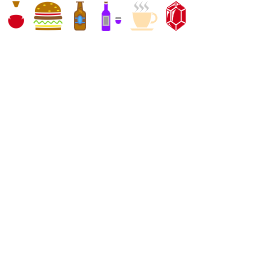
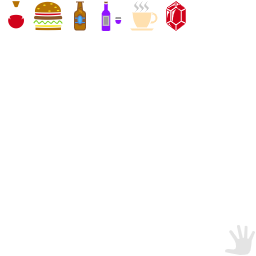
i can see a ghost hand on the hamburger on teh floor when i hover over it.

Changed region(s): [[0.875, 0.875, 1.0, 1.0]]

diff --git a/aspirant_application/Graphics.FloorInventory.cpp b/aspirant_application/Graphics.FloorInventory.cpp
@@ -7,9 +7,31 @@
 #include "Game.Avatar.h"
 #include "Graphics.Data.Properties.h"
 #include "Graphics.Fonts.h"
+#include "Graphics.Data.Types.h"
 #include <sstream>
+namespace graphics::Layouts
+{
+	nlohmann::json& GetLayout(const std::string&);
+}
 namespace graphics::FloorInventory
 {
+	template <typename TResult>
+	static TResult WithControl(const std::string& layoutName, const std::string& controlId, std::function<TResult(nlohmann::json&)> func, std::function<TResult()> notFound)
+	{
+		for (auto& thingie : graphics::Layouts::GetLayout(layoutName))
+		{
+			if (graphics::data::Types::FromString(thingie[common::data::Properties::TYPE]) == graphics::data::Type::FLOOR_INVENTORY)
+			{
+				if (thingie.count(graphics::data::Properties::CONTROL_ID) > 0 &&
+					thingie[graphics::data::Properties::CONTROL_ID] == controlId)
+				{
+					return func(thingie);
+				}
+			}
+		}
+		return notFound();
+	}
+
 	static size_t inventoryIndex = 0;
 
 	void ResetIndex()
@@ -100,5 +122,49 @@ namespace graphics::FloorInventory
 			}
 			graphics::Fonts::WriteText(font, renderer, { x,y }, "(nothing)", inactiveColor, graphics::HorizontalAlignment::LEFT);
 		}
+	}
+
+	void OnMouseMotion(const std::string& layoutName, const std::string& controlId, const common::XY<Sint32>& xy)
+	{
+		WithControl<void>(layoutName, controlId,
+			[xy](nlohmann::json& thingie)
+		{
+			int x = thingie[common::data::Properties::X];
+			int y = thingie[common::data::Properties::Y];
+			int width = thingie[common::data::Properties::WIDTH];
+			int rowHeight = thingie[graphics::data::Properties::ROW_HEIGHT];
+			
+			if (xy.GetX() >= x && xy.GetX() < x + width && xy.GetY() >= y)
+			{
+				size_t row = ((size_t)xy.GetY() - (size_t)y) / (size_t)rowHeight;
+				auto inventory = game::world::Items::FloorInventory(game::Avatar::GetPosition());
+				if ((size_t)row < inventory.size())
+				{
+					inventoryIndex = row;
+				}
+			}
+		}, []() {});
+	}
+
+	std::optional<int> OnMouseButtonUp(const std::string& layoutName, const std::string& controlId, const common::XY<Sint32>& xy, Uint8 buttons)
+	{
+		return WithControl<std::optional<int>>(layoutName, controlId,
+			[xy, buttons](nlohmann::json& thingie)
+		{
+			int x = thingie[common::data::Properties::X];
+			int y = thingie[common::data::Properties::Y];
+			int width = thingie[common::data::Properties::WIDTH];
+			int rowHeight = thingie[graphics::data::Properties::ROW_HEIGHT];
+			if (xy.GetX() >= x && xy.GetX() < x + width && xy.GetY() >= y)
+			{
+				size_t row = ((size_t)xy.GetY() - (size_t)y) / (size_t)rowHeight;
+				auto inventory = game::world::Items::FloorInventory(game::Avatar::GetPosition());
+				if ((size_t)row < inventory.size())
+				{
+					return std::optional<int>(row);
+				}
+			}
+			return std::optional<int>();
+		}, []() { return std::nullopt; });
 	}
 }

diff --git a/aspirant_application/Sublayout.POV.cpp b/aspirant_application/Sublayout.POV.cpp
@@ -9,6 +9,9 @@
 #include "Application.Update.h"
 #include "Game.Creatures.h"
 #include <tuple>
+#include "Graphics.Areas.h"
+#include "Application.MouseButtonUp.h"
+#include "Application.MouseMotion.h"
 namespace sublayout::POV
 {
 	const std::string LEFT_SIDE_IMAGE_ID = "LeftSide";
@@ -17,6 +20,9 @@ namespace sublayout::POV
 	const std::string DIRECTION_TEXT_ID = "Direction";
 	const std::string POSITION_TEXT_ID = "Position";
 	const std::string POV_LAYOUT_NAME = "Sublayout.POV";
+
+	const std::string AREA_TAKE_FOOD = "TakeFood";
+	const std::string IMAGE_TAKE_FOOD = "TakeFood";
 
 	const std::map<game::world::Border, std::string> leftSides =
 	{
@@ -70,6 +76,7 @@ namespace sublayout::POV
 
 	static void UpdateItems(const common::XY<size_t> position)
 	{
+
 		for (auto& item : game::item::All())
 		{
 			::graphics::Images::SetVisible(POV_LAYOUT_NAME, game::item::GetDescriptor(item).imageId, game::world::Items::IsPresent(position, item));
@@ -96,8 +103,20 @@ namespace sublayout::POV
 		::UIState::IN_PLAY_COMBAT_RESULT
 	};
 
+	static void OnMouseMotion(const common::XY<Sint32>& xy)
+	{
+		auto areas = graphics::Areas::Get(POV_LAYOUT_NAME, xy);
+		auto position = game::Avatar::GetPosition();
+		for (auto& item : game::item::All())
+		{
+			auto descriptor = game::item::GetDescriptor(item);
+			::graphics::Images::SetVisible(POV_LAYOUT_NAME, descriptor.takeImageId, areas.contains(descriptor.takeAreaId) && game::world::Items::IsPresent(position, item));
+		}
+	}
+
 	void Start()
 	{
+		application::MouseMotion::AddHandler(::UIState::IN_PLAY_MAP, OnMouseMotion);
 		for (auto state : states)
 		{
 			::application::Update::AddHandler(state, UpdatePOV);

diff --git a/aspirant_application/State.InPlay.FloorInventory.cpp b/aspirant_application/State.InPlay.FloorInventory.cpp
@@ -8,9 +8,12 @@
 #include "Game.Avatar.h"
 #include "Game.Avatar.Items.h"
 #include "Common.Utility.h"
+#include "Application.MouseButtonUp.h"
+#include "Application.MouseMotion.h"
 namespace state::in_play::FloorInventory
 {
 	const std::string LAYOUT_NAME = "State.InPlay.FloorInventory";
+	const std::string CONTROL_FLOOR_INVENTORY = "FloorInventory";
 
 	static void PickUpItem()
 	{
@@ -34,8 +37,25 @@ namespace state::in_play::FloorInventory
 		{ ::Command::GREEN, PickUpItem }
 	};
 
+	void OnMouseMotion(const common::XY<Sint32>& xy)
+	{
+		graphics::FloorInventory::OnMouseMotion(LAYOUT_NAME, CONTROL_FLOOR_INVENTORY, xy);
+	}
+
+	bool OnMouseButtonUp(const common::XY<Sint32>& xy, Uint8 buttons)
+	{
+		auto itemUsed = graphics::FloorInventory::OnMouseButtonUp(LAYOUT_NAME, CONTROL_FLOOR_INVENTORY, xy, buttons);
+		if (itemUsed.has_value())
+		{
+			PickUpItem();
+		}
+		return itemUsed.has_value();
+	}
+
 	void Start()
 	{
+		::application::MouseButtonUp::AddHandler(::UIState::IN_PLAY_FLOOR, OnMouseButtonUp);
+		::application::MouseMotion::AddHandler(::UIState::IN_PLAY_FLOOR, OnMouseMotion);
 		::application::Command::SetHandlers(::UIState::IN_PLAY_FLOOR, commandHandlers);
 		::application::Renderer::SetRenderLayout(::UIState::IN_PLAY_FLOOR, LAYOUT_NAME);
 	}

diff --git a/aspirant_application/Graphics.AvatarInventory.cpp b/aspirant_application/Graphics.AvatarInventory.cpp
@@ -8,6 +8,7 @@
 #include "Graphics.Fonts.h"
 #include "Game.Item.h"
 #include "Graphics.Data.Types.h"
+#include <optional>
 namespace graphics::Layouts
 {
 	nlohmann::json& GetLayout(const std::string&);
@@ -140,7 +141,7 @@ namespace graphics::AvatarInventory
 		}, []() {});
 	}
 
-	std::optional<int> OnMouseButtonUp(const std::string& layoutName, const std::string& controlId, const common::XY<Sint32>& xy, Uint8 buttons)
+	std::optional<size_t> OnMouseButtonUp(const std::string& layoutName, const std::string& controlId, const common::XY<Sint32>& xy, Uint8 buttons)
 	{
 		return WithControl<std::optional<int>>(layoutName, controlId,
 			[xy, buttons](nlohmann::json& thingie) 
@@ -155,10 +156,10 @@ namespace graphics::AvatarInventory
 				auto inventory = game::avatar::Items::All();
 				if ((size_t)row < inventory.size())
 				{
-					return std::optional<int>(row);
+					return std::optional<size_t>(row);
 				}
 			}
-			return std::optional<int>();
+			return std::optional<size_t>();
 		}, []() { return std::nullopt; });
 	}
 }

diff --git a/aspirant_application/Game.Item.cpp b/aspirant_application/Game.Item.cpp
@@ -37,6 +37,8 @@ namespace game::item
 		{
 			descriptor[common::data::Properties::NAME],
 			descriptor[game::data::Properties::IMAGE_ID],
+			descriptor[game::data::Properties::TAKE_IMAGE_ID],
+			descriptor[game::data::Properties::TAKE_AREA_ID],
 			(descriptor.count(game::data::Properties::NON_COMBAT)>0) ? (std::optional<Usage>((Usage)(int)descriptor[game::data::Properties::NON_COMBAT])) : (std::nullopt),
 			(descriptor.count(game::data::Properties::AMOUNT) > 0) ? (std::optional<int>((int)descriptor[game::data::Properties::AMOUNT])) : (std::nullopt),
 			(descriptor.count(game::data::Properties::DURATION) > 0) ? (std::optional<int>((int)descriptor[game::data::Properties::DURATION])) : (std::nullopt),

diff --git a/aspirant_application/Graphics.FloorInventory.h b/aspirant_application/Graphics.FloorInventory.h
@@ -1,10 +1,14 @@
 #pragma once
 #include <optional>
 #include "Game.Item.h"
+#include <SDL.h>
+#include "Common.XY.h"
 namespace graphics::FloorInventory 
 { 
 	void ResetIndex();
 	void NextIndex();
 	void PreviousIndex();
 	std::optional<int> GetItem();
+	void OnMouseMotion(const std::string&, const std::string&, const common::XY<Sint32>&);
+	std::optional<int> OnMouseButtonUp(const std::string&, const std::string&, const common::XY<Sint32>&, Uint8);
 }

diff --git a/aspirant_application/Graphics.AvatarInventory.h b/aspirant_application/Graphics.AvatarInventory.h
@@ -10,5 +10,5 @@ namespace graphics::AvatarInventory
 	void PreviousIndex();
 	std::optional<int> GetItem();
 	void OnMouseMotion(const std::string&, const std::string&, const common::XY<Sint32>&);
-	std::optional<int> OnMouseButtonUp(const std::string&, const std::string&, const common::XY<Sint32>&, Uint8);
+	std::optional<size_t> OnMouseButtonUp(const std::string&, const std::string&, const common::XY<Sint32>&, Uint8);
 }

diff --git a/aspirant_application/Game.Data.Properties.h b/aspirant_application/Game.Data.Properties.h
@@ -30,5 +30,7 @@ namespace game::data::Properties
 	const std::string SFX_SUCCESS = "sfx-success";
 	const std::string SFX_FAILURE = "sfx-failure";
 	const std::string STATISTICS = "statistics";
+	const std::string TAKE_AREA_ID = "take-area-id";
+	const std::string TAKE_IMAGE_ID = "take-image-id";
 	const std::string WOUNDS = "wounds";
 }

diff --git a/aspirant_application/Game.Item.h b/aspirant_application/Game.Item.h
@@ -18,6 +18,8 @@ namespace game
 		{
 			const std::string name;
 			const std::string imageId;
+			const std::string takeImageId;
+			const std::string takeAreaId;
 			std::optional<Usage> usage;
 			std::optional<int> amount;
 			std::optional<int> duration;
